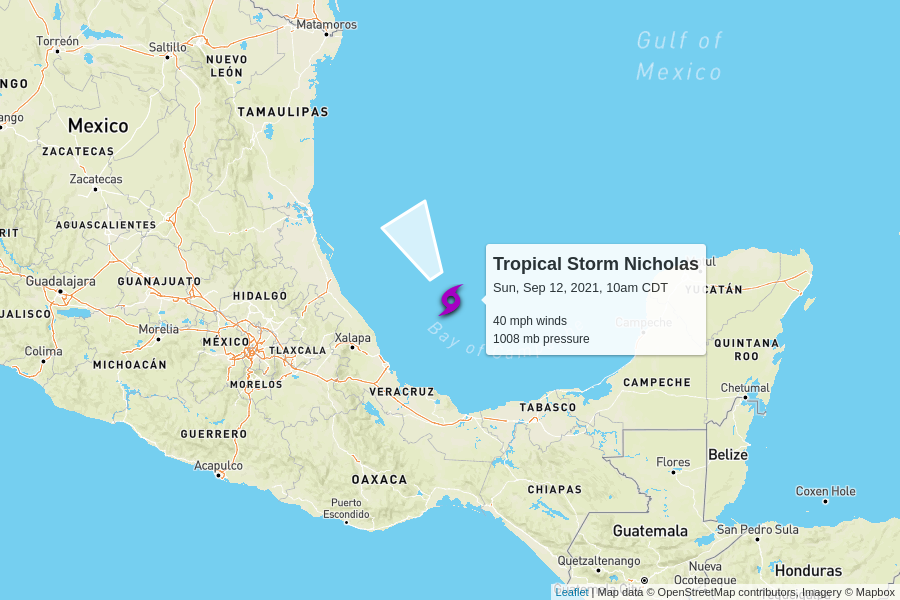
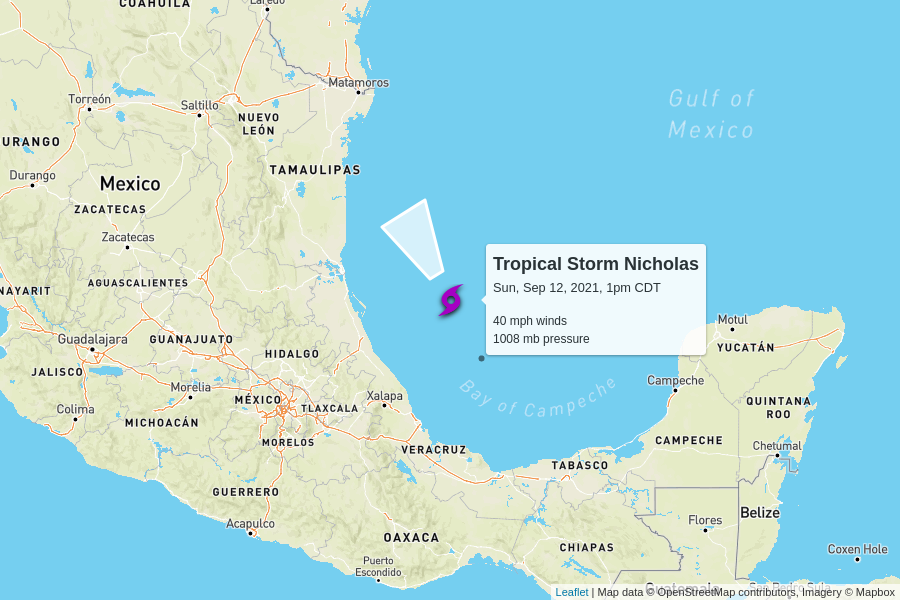
automatic update

diff --git a/docs/index.html b/docs/index.html
@@ -100,7 +100,7 @@
         <td colspan="6" class="storm category-0" >
           <h2>
             Tropical Storm Nicholas
-            <p class="updated">last updated <span data-time>2021-09-12T15:00:00.000Z</span></p>
+            <p class="updated">last updated <span data-time>2021-09-12T18:00:00.000Z</span></p>
           </h2>
         </td>
       </tr>
@@ -118,7 +118,7 @@
         <td>40 mph</td>
         <td>1008 mb</td>
         <td>
-          13 mph to the north-northwest
+          15 mph to the north-northwest
           <br/>
           <span style="display: inline-block; font-size: 1.5em; transform: rotate(330deg);">↑</span>
         </td>
